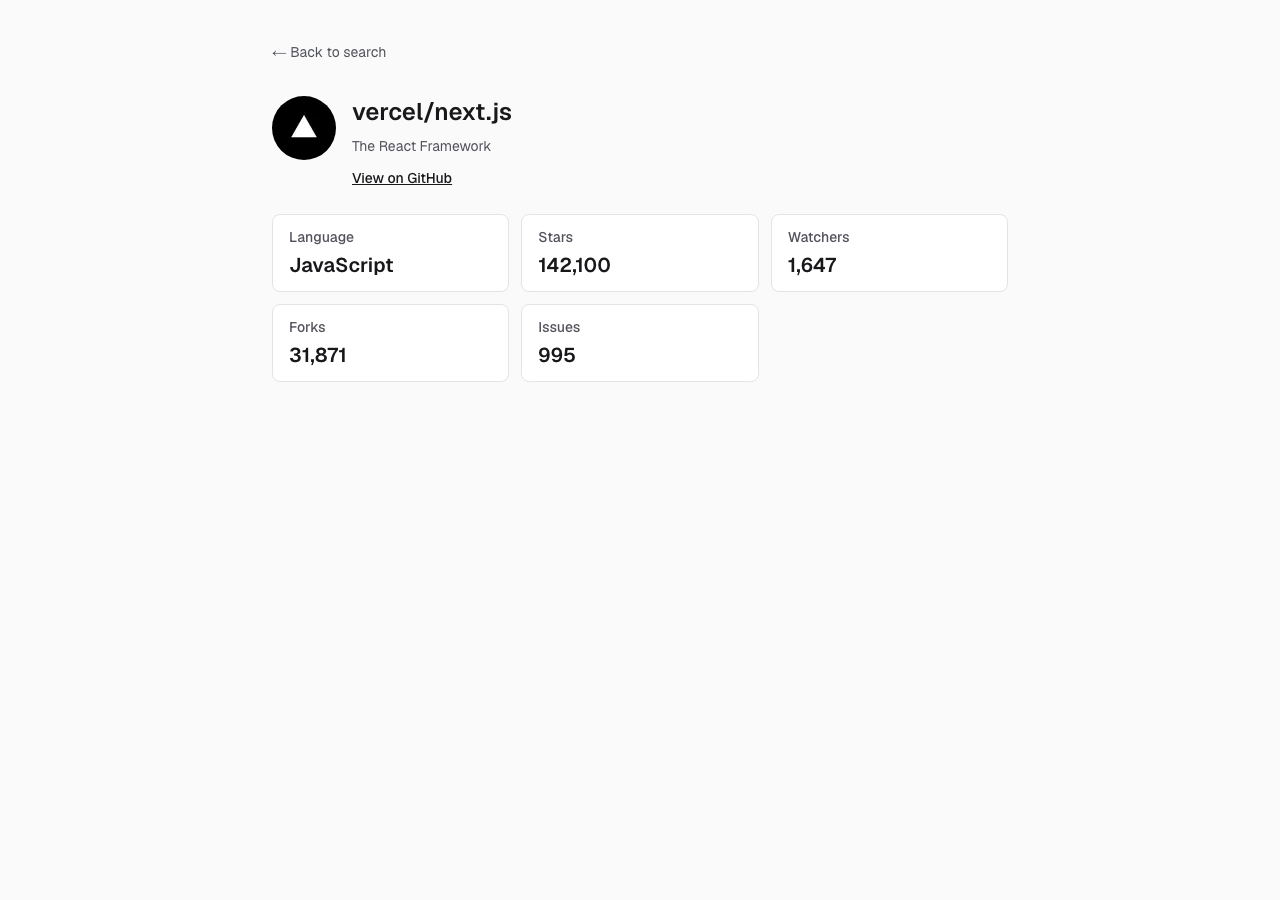
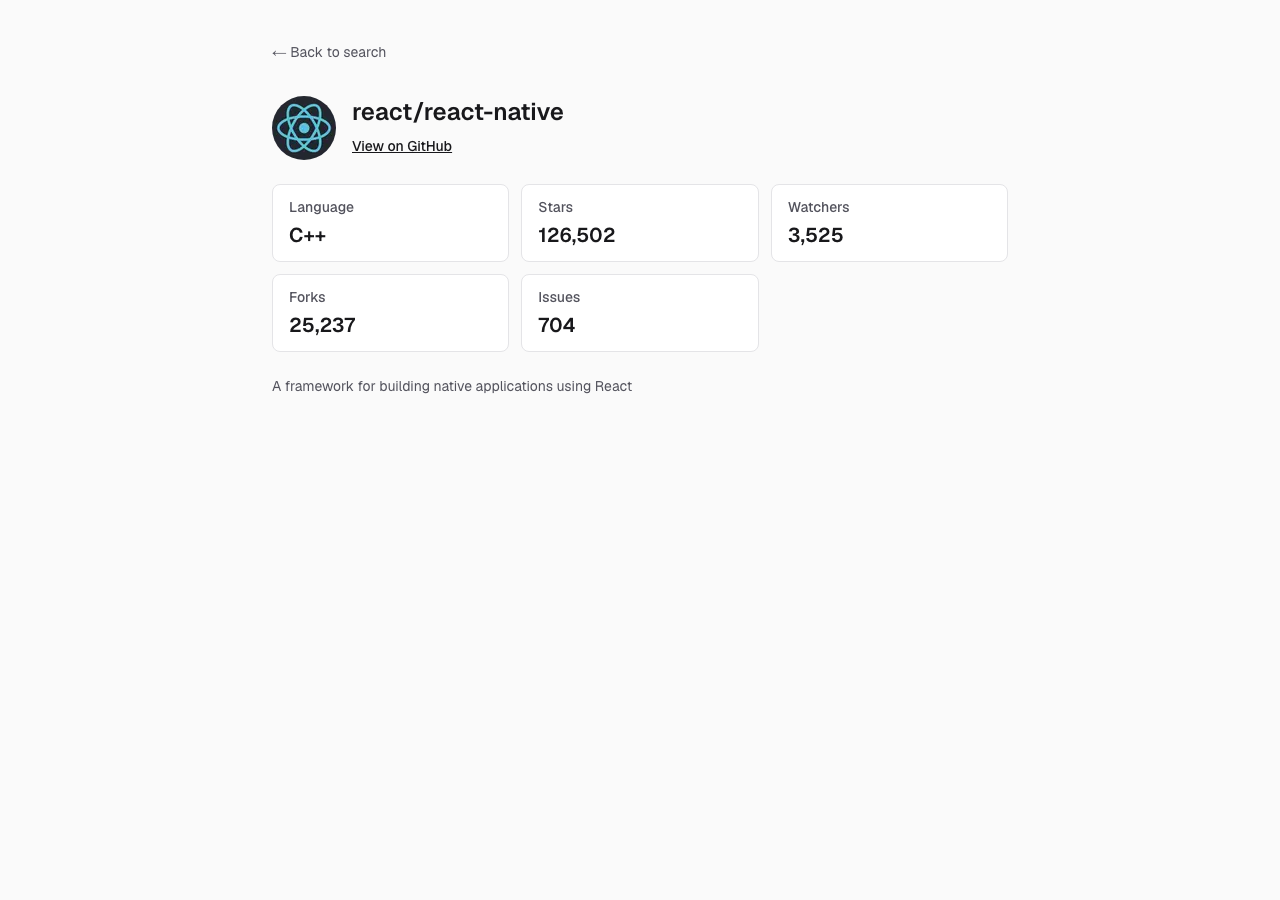
fix: apply sort on change and restore search results from detail back link (#1)
* fix: apply sort on change and restore search results from detail back link

* fix: show full description on repository detail page

* fix: clear search results when query input is emptied

* docs: reflect Vitest count and search URL behavior in README

* chore: update README screenshots for latest UI

* chore: update screenshots to react-native search results

---------

Changed region(s): [[0.2188, 0.2178, 0.5, 0.4356], [0.1875, 0.0933, 0.4375, 0.2178], [0.5938, 0.2178, 0.6562, 0.3111]]

diff --git a/src/app/repositories/[owner]/[repo]/page.tsx b/src/app/repositories/[owner]/[repo]/page.tsx
@@ -1,9 +1,9 @@
 import Image from "next/image";
-import Link from "next/link";
 import { Suspense } from "react";
 import { notFound } from "next/navigation";
 import type { Metadata } from "next";
 
+import { BackToSearchLink } from "@/components/back-to-search-link";
 import { FormattedStat, Stat } from "@/components/stat";
 import { ErrorMessage } from "@/components/error-message";
 import { IssueCount } from "@/components/issue-count";
@@ -30,7 +30,7 @@ export async function generateMetadata({
 
   return {
     title: `${outcome.full_name} | GitHub Repository Search`,
-    description: outcome.description ?? undefined,
+    description: outcome.description?.slice(0, 160) ?? undefined,
   };
 }
 
@@ -46,9 +46,9 @@ export default async function RepositoryPage({ params }: RepositoryPageProps) {
     return (
       <div className="mx-auto flex w-full max-w-3xl flex-1 flex-col gap-8 px-4 py-10">
         <nav aria-label="Breadcrumb">
-          <Link href="/" className="text-sm text-zinc-600 hover:text-zinc-900">
-            ← Back to search
-          </Link>
+          <Suspense fallback={null}>
+            <BackToSearchLink className="text-sm text-zinc-600 hover:text-zinc-900" />
+          </Suspense>
         </nav>
         <ErrorMessage title="Could not load repository" error={outcome} />
       </div>
@@ -60,9 +60,9 @@ export default async function RepositoryPage({ params }: RepositoryPageProps) {
   return (
     <div className="mx-auto flex w-full max-w-3xl flex-1 flex-col gap-8 px-4 py-10">
       <nav aria-label="Breadcrumb">
-        <Link href="/" className="text-sm text-zinc-600 hover:text-zinc-900">
-          ← Back to search
-        </Link>
+        <Suspense fallback={null}>
+          <BackToSearchLink className="text-sm text-zinc-600 hover:text-zinc-900" />
+        </Suspense>
       </nav>
 
       <article className="flex flex-col gap-6">
@@ -80,17 +80,11 @@ export default async function RepositoryPage({ params }: RepositoryPageProps) {
               {repository.full_name}
             </h1>
 
-            {repository.description ? (
-              <p className="mt-2 text-sm text-zinc-600">{repository.description}</p>
-            ) : (
-              <p className="mt-2 text-sm text-zinc-400">No description</p>
-            )}
-
             <a
               href={repository.html_url}
               target="_blank"
               rel="noopener noreferrer"
-              className="mt-3 inline-block text-sm font-medium text-zinc-900 underline hover:no-underline"
+              className="mt-2 inline-block text-sm font-medium text-zinc-900 underline hover:no-underline"
             >
               View on GitHub
             </a>
@@ -110,6 +104,14 @@ export default async function RepositoryPage({ params }: RepositoryPageProps) {
             <IssueCount owner={owner} repo={repo} />
           </Suspense>
         </div>
+
+        {repository.description ? (
+          <p className="whitespace-pre-wrap text-sm leading-5 text-zinc-600">
+            {repository.description}
+          </p>
+        ) : (
+          <p className="text-sm text-zinc-400">No description</p>
+        )}
       </article>
     </div>
   );

diff --git a/src/components/search-form.tsx b/src/components/search-form.tsx
@@ -1,7 +1,7 @@
 "use client";
 
 import { useRouter } from "next/navigation";
-import { type FormEvent } from "react";
+import { type ChangeEvent, type FormEvent } from "react";
 
 import {
   buildSearchQuery,
@@ -14,23 +14,41 @@ type SearchFormProps = {
   defaultSort: SortOption;
 };
 
+function parseSort(value: string): SortOption {
+  return sortOptions.find((option) => option === value) ?? "best-match";
+}
+
 export function SearchForm({ defaultQuery, defaultSort }: SearchFormProps) {
   const router = useRouter();
 
-  function handleSubmit(event: FormEvent<HTMLFormElement>) {
-    event.preventDefault();
-
-    const formData = new FormData(event.currentTarget);
+  function navigateToSearch(form: HTMLFormElement, sort: SortOption) {
+    const formData = new FormData(form);
     const query = String(formData.get("q") ?? "").trim();
     if (!query) {
       return;
     }
 
-    const sortCandidate = String(formData.get("sort") ?? "best-match");
-    const sort: SortOption =
-      sortOptions.find((option) => option === sortCandidate) ?? "best-match";
-
     router.push(`/?${buildSearchQuery({ q: query, page: 1, sort })}`);
+  }
+
+  function handleSubmit(event: FormEvent<HTMLFormElement>) {
+    event.preventDefault();
+
+    const form = event.currentTarget;
+    navigateToSearch(
+      form,
+      parseSort(String(new FormData(form).get("sort") ?? "best-match")),
+    );
+  }
+
+  function handleSortChange(event: ChangeEvent<HTMLSelectElement>) {
+    navigateToSearch(event.currentTarget.form!, parseSort(event.target.value));
+  }
+
+  function handleQueryChange(event: ChangeEvent<HTMLInputElement>) {
+    if (event.target.value.trim() === "" && defaultQuery.length > 0) {
+      router.push("/");
+    }
   }
 
   return (
@@ -48,6 +66,7 @@ export function SearchForm({ defaultQuery, defaultSort }: SearchFormProps) {
           name="q"
           type="search"
           defaultValue={defaultQuery}
+          onChange={handleQueryChange}
           placeholder="e.g. next.js"
           className="rounded-md border border-zinc-300 bg-white px-3 py-2 text-sm text-zinc-900 outline-none focus:border-zinc-500 focus:ring-2 focus:ring-zinc-200"
           autoComplete="off"
@@ -62,6 +81,7 @@ export function SearchForm({ defaultQuery, defaultSort }: SearchFormProps) {
           id="search-sort"
           name="sort"
           defaultValue={defaultSort}
+          onChange={handleSortChange}
           className="rounded-md border border-zinc-300 bg-white px-3 py-2 text-sm text-zinc-900 outline-none focus:border-zinc-500 focus:ring-2 focus:ring-zinc-200"
         >
           {sortOptions.map((option) => (

diff --git a/src/components/repository-card.tsx b/src/components/repository-card.tsx
@@ -6,15 +6,17 @@ import type { SearchRepositoryItem } from "@/lib/github/schema";
 
 type RepositoryCardProps = {
   repository: SearchRepositoryItem;
+  returnTo: string;
 };
 
-export function RepositoryCard({ repository }: RepositoryCardProps) {
+export function RepositoryCard({ repository, returnTo }: RepositoryCardProps) {
   const owner = repository.owner.login;
   const repo = repository.full_name.slice(owner.length + 1);
   const updatedAt = formatDate(repository.updated_at);
+  const detailHref = `/repositories/${owner}/${repo}?from=${encodeURIComponent(returnTo)}`;
 
   return (
-    <article className="rounded-lg border border-zinc-200 bg-white p-4 shadow-sm">
+    <article className="relative rounded-lg border border-zinc-200 bg-white p-4 shadow-sm transition-colors hover:border-zinc-300 hover:bg-zinc-50">
       <div className="flex items-start gap-3">
         <Image
           src={repository.owner.avatar_url}
@@ -27,17 +29,19 @@ export function RepositoryCard({ repository }: RepositoryCardProps) {
         <div className="min-w-0 flex-1">
           <h2 className="text-base font-semibold text-zinc-900">
             <Link
-              href={`/repositories/${owner}/${repo}`}
-              className="hover:underline"
+              href={detailHref}
+              className="after:absolute after:inset-0 after:rounded-lg after:content-[''] hover:underline"
             >
               {repository.full_name}
             </Link>
           </h2>
 
           {repository.description ? (
-            <p className="mt-1 text-sm text-zinc-600">{repository.description}</p>
+            <p className="mt-1 min-h-[3.75rem] line-clamp-3 text-sm leading-5 text-zinc-600">
+              {repository.description}
+            </p>
           ) : (
-            <p className="mt-1 text-sm text-zinc-400">No description</p>
+            <p className="mt-1 min-h-[3.75rem] text-sm leading-5 text-zinc-400">No description</p>
           )}
 
           <dl className="mt-3 flex flex-wrap gap-x-4 gap-y-1 text-sm text-zinc-600">

diff --git a/src/lib/search-params.test.ts b/src/lib/search-params.test.ts
@@ -1,11 +1,38 @@
 import { describe, expect, it } from "vitest";
 
 import { MAX_PAGE } from "@/lib/constants";
-import { parseSearchParams } from "@/lib/search-params";
+import { buildSearchPath, parseReturnPath, parseSearchParams } from "@/lib/search-params";
 
 describe("parseSearchParams", () => {
   it("falls back invalid page to 1 and caps oversized page to MAX_PAGE", () => {
     expect(parseSearchParams({ page: "abc" }).page).toBe(1);
     expect(parseSearchParams({ page: "99999" }).page).toBe(MAX_PAGE);
+  });
+});
+
+describe("buildSearchPath", () => {
+  it("builds a home path with omitted defaults", () => {
+    expect(buildSearchPath({ q: "next.js", page: 1, sort: "best-match" })).toBe(
+      "/?q=next.js",
+    );
+    expect(buildSearchPath({ q: "next.js", page: 2, sort: "stars" })).toBe(
+      "/?q=next.js&page=2&sort=stars",
+    );
+  });
+});
+
+describe("parseReturnPath", () => {
+  it("returns home for missing or unsafe values", () => {
+    expect(parseReturnPath(undefined)).toBe("/");
+    expect(parseReturnPath("//evil.example")).toBe("/");
+    expect(parseReturnPath("/repositories/foo/bar")).toBe("/");
+  });
+
+  it("accepts home and search URLs", () => {
+    expect(parseReturnPath("/")).toBe("/");
+    expect(parseReturnPath("/?q=next.js&page=2")).toBe("/?q=next.js&page=2");
+    expect(parseReturnPath(encodeURIComponent("/?q=next.js&page=2"))).toBe(
+      "/?q=next.js&page=2",
+    );
   });
 });

diff --git a/src/components/search-form.test.tsx b/src/components/search-form.test.tsx
@@ -36,4 +36,37 @@ describe("SearchForm", () => {
     await user.click(screen.getByRole("button", { name: "Search" }));
     expect(push).not.toHaveBeenCalled();
   });
+
+  it("re-sorts immediately and resets to page 1", async () => {
+    const user = userEvent.setup();
+    push.mockClear();
+
+    render(<SearchForm defaultQuery="next.js" defaultSort="best-match" />);
+
+    await user.selectOptions(screen.getByLabelText("Sort by"), "stars");
+
+    expect(push).toHaveBeenCalledWith("/?q=next.js&sort=stars");
+  });
+
+  it("does not navigate on sort change when query is empty", async () => {
+    const user = userEvent.setup();
+    push.mockClear();
+
+    render(<SearchForm defaultQuery="" defaultSort="best-match" />);
+
+    await user.selectOptions(screen.getByLabelText("Sort by"), "stars");
+
+    expect(push).not.toHaveBeenCalled();
+  });
+
+  it("returns to home when an active query is cleared", async () => {
+    const user = userEvent.setup();
+    push.mockClear();
+
+    render(<SearchForm defaultQuery="next.js" defaultSort="best-match" />);
+
+    await user.clear(screen.getByLabelText("Search query"));
+
+    expect(push).toHaveBeenCalledWith("/");
+  });
 });

diff --git a/src/components/search-results.tsx b/src/components/search-results.tsx
@@ -8,7 +8,10 @@ import { MAX_RESULTS } from "@/lib/constants";
 import { formatNumber } from "@/lib/format";
 import { isGitHubApiError } from "@/lib/github/errors";
 import { searchRepositories } from "@/lib/github/search-repositories";
-import type { ParsedSearchParams } from "@/lib/search-params";
+import {
+  buildSearchPath,
+  type ParsedSearchParams,
+} from "@/lib/search-params";
 
 type SearchResultsProps = {
   searchParams: ParsedSearchParams;
@@ -42,7 +45,10 @@ async function SearchResultsContent({ searchParams }: SearchResultsProps) {
         ) : null}
       </p>
 
-      <RepositoryList repositories={outcome.items} />
+      <RepositoryList
+        repositories={outcome.items}
+        returnTo={buildSearchPath(searchParams)}
+      />
       <Pagination searchParams={searchParams} totalCount={outcome.total_count} />
     </div>
   );

diff --git a/src/app/repositories/[owner]/[repo]/not-found.tsx b/src/app/repositories/[owner]/[repo]/not-found.tsx
@@ -1,4 +1,6 @@
-import Link from "next/link";
+import { Suspense } from "react";
+
+import { BackToSearchLink } from "@/components/back-to-search-link";
 
 export default function RepositoryNotFound() {
   return (
@@ -7,12 +9,9 @@ export default function RepositoryNotFound() {
       <p className="text-sm text-zinc-600">
         The repository you are looking for does not exist or is not accessible.
       </p>
-      <Link
-        href="/"
-        className="w-fit text-sm font-medium text-zinc-900 underline hover:no-underline"
-      >
-        Back to search
-      </Link>
+      <Suspense fallback={null}>
+        <BackToSearchLink className="w-fit text-sm font-medium text-zinc-900 underline hover:no-underline" />
+      </Suspense>
     </div>
   );
 }

diff --git a/src/components/repository-list.tsx b/src/components/repository-list.tsx
@@ -3,14 +3,15 @@ import type { SearchRepositoryItem } from "@/lib/github/schema";
 
 type RepositoryListProps = {
   repositories: SearchRepositoryItem[];
+  returnTo: string;
 };
 
-export function RepositoryList({ repositories }: RepositoryListProps) {
+export function RepositoryList({ repositories, returnTo }: RepositoryListProps) {
   return (
     <ul className="flex flex-col gap-3" aria-label="Search results">
       {repositories.map((repository) => (
         <li key={repository.id}>
-          <RepositoryCard repository={repository} />
+          <RepositoryCard repository={repository} returnTo={returnTo} />
         </li>
       ))}
     </ul>

diff --git a/src/lib/search-params.ts b/src/lib/search-params.ts
@@ -58,3 +58,34 @@ export function buildSearchQuery(params: {
 
   return search.toString();
 }
+
+export function buildSearchPath(params: {
+  q: string;
+  page: number;
+  sort: SortOption;
+}): string {
+  return `/?${buildSearchQuery(params)}`;
+}
+
+export function parseReturnPath(raw: string | undefined): string {
+  if (!raw) {
+    return "/";
+  }
+
+  let decoded: string;
+  try {
+    decoded = decodeURIComponent(raw);
+  } catch {
+    return "/";
+  }
+
+  if (!decoded.startsWith("/") || decoded.startsWith("//")) {
+    return "/";
+  }
+
+  if (decoded !== "/" && !decoded.startsWith("/?")) {
+    return "/";
+  }
+
+  return decoded;
+}

diff --git a/src/components/back-to-search-link.tsx b/src/components/back-to-search-link.tsx
@@ -1,0 +1,21 @@
+"use client";
+
+import Link from "next/link";
+import { useSearchParams } from "next/navigation";
+
+import { parseReturnPath } from "@/lib/search-params";
+
+type BackToSearchLinkProps = {
+  className?: string;
+};
+
+export function BackToSearchLink({ className }: BackToSearchLinkProps) {
+  const searchParams = useSearchParams();
+  const href = parseReturnPath(searchParams.get("from") ?? undefined);
+
+  return (
+    <Link href={href} className={className}>
+      ← Back to search
+    </Link>
+  );
+}
